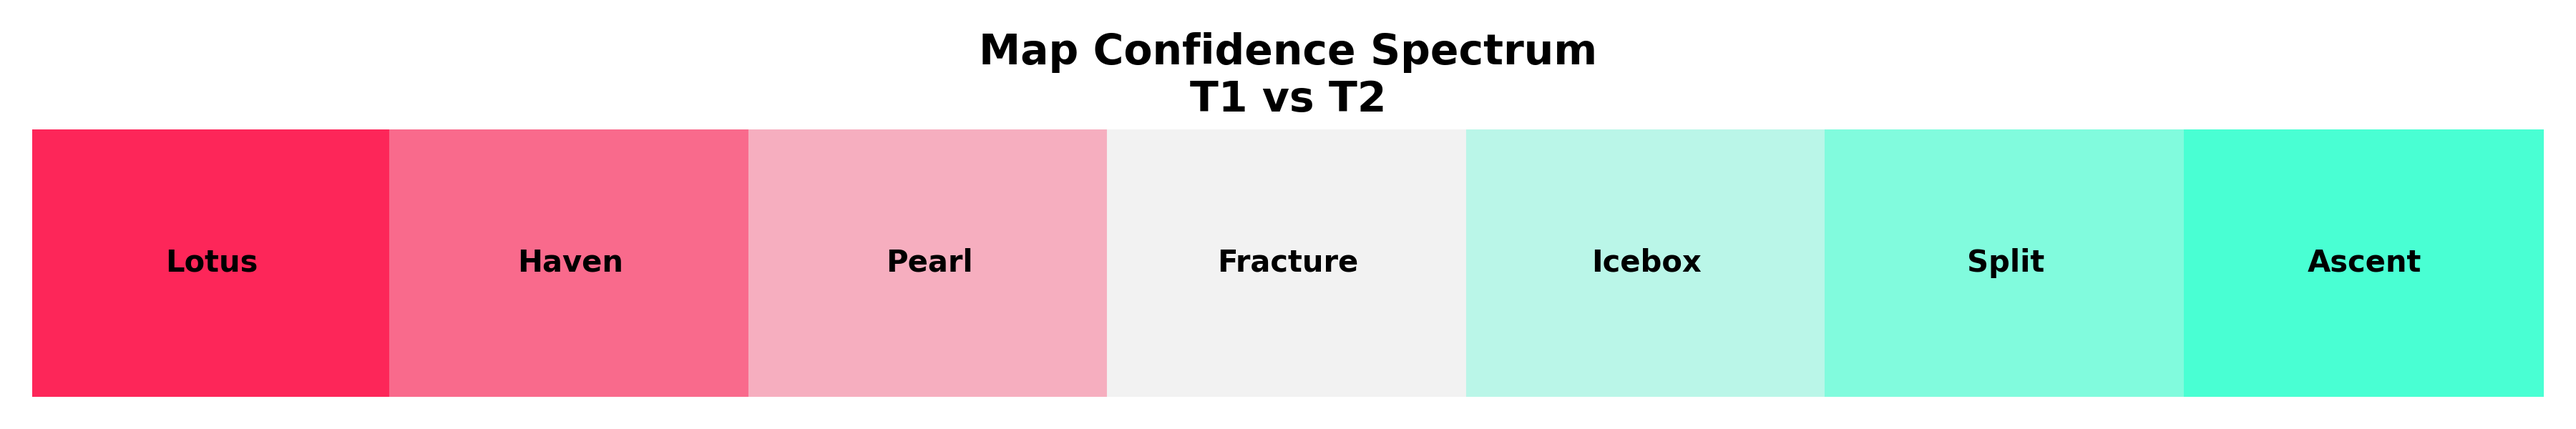
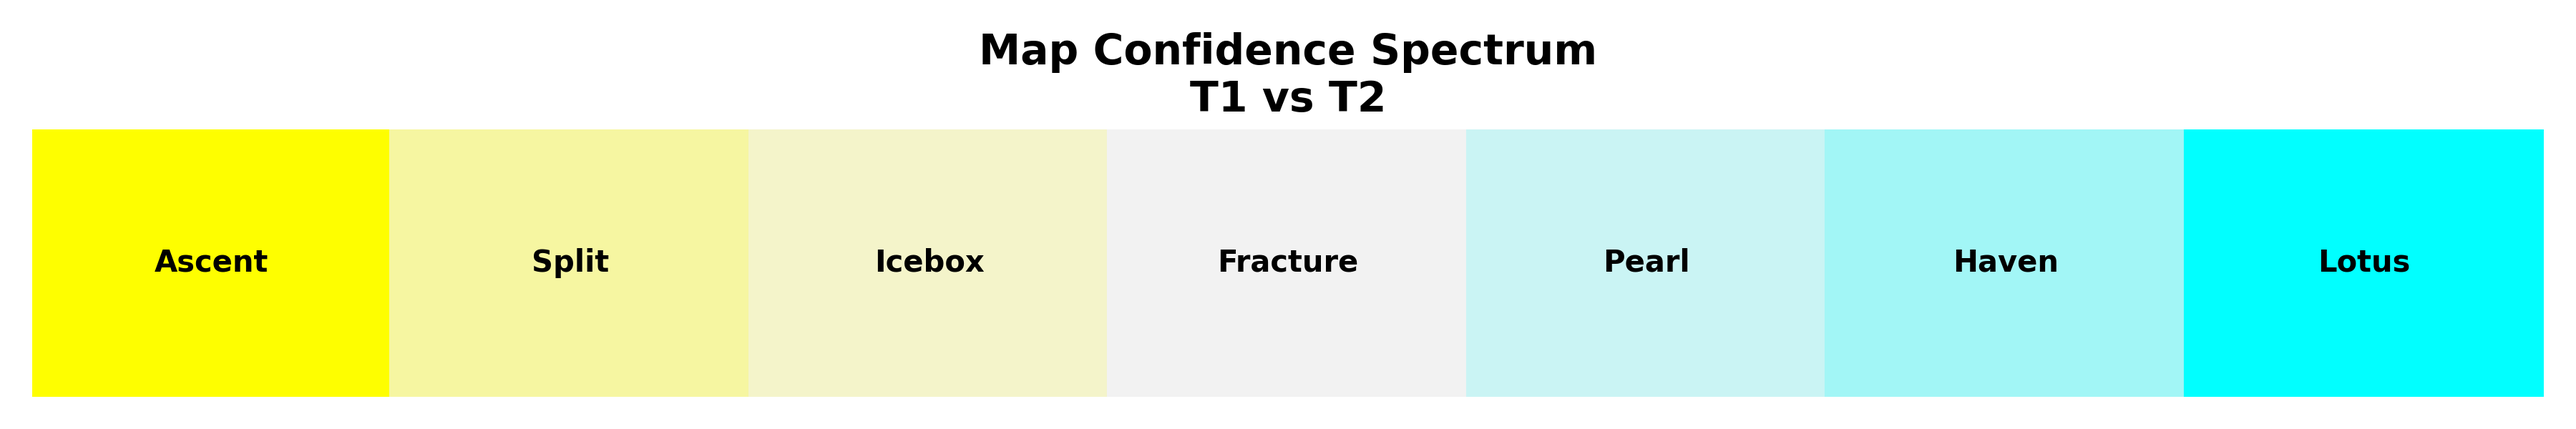
Change color to KA V1 theme

diff --git a/spectrum_cli.py b/spectrum_cli.py
@@ -51,13 +51,13 @@ ordered_maps = [x[0] for x in sorted_maps]
 
 # === COLOR SCHEME ===
 colors = {
-    1: "#fd2659",  # worst
-    2: "#f96a8c",
-    3: "#f6aebf",
+    1: "#fefe00",  # worst
+    2: "#f6f6a1",
+    3: "#f4f4ca",
     4: "#f2f2f2",  # neutral
-    5: "#baf6e8",
-    6: "#81fbdd",
-    7: "#49ffd3"   # best
+    5: "#caf4f4",
+    6: "#a2f6f6",
+    7: "#01ffff"   # best
 }
 map_colors = [colors[ranked_maps[m]] for m in ordered_maps]
 
